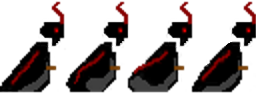
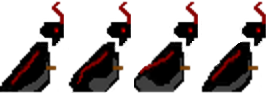
animation test

diff --git a/TE4TwoDSidescroller/Player.cs b/TE4TwoDSidescroller/Player.cs
@@ -65,7 +65,8 @@ namespace TE4TwoDSidescroller
 
             LoadPlayerTexture2D();
 
-            Animate();
+            //Animate();
+            Anime();
 
             maxHealth = 150;
             currentHealth = maxHealth;
@@ -131,29 +132,36 @@ namespace TE4TwoDSidescroller
             }
         }
 
-        public void Animate()
+        //public void Animate()
+        //{
+        //    if (isWalkingRight)
+        //    {
+        //        animation = new Animation(rightWalk, 4);
+        //        animation.isLooping = true;
+        //        animation.FramePerSecond = 5;
+        //        animation.position = PlayerPosition;
+        //        isWalkingRight = false;
+        //    }
+        //    else if (isWalkingLeft)
+        //    {
+        //        animation = new Animation(leftWalk, 4);
+        //        animation.isLooping = true;
+        //        animation.FramePerSecond = 5;
+        //        animation.position = PlayerPosition;
+        //        isWalkingLeft = false;
+        //    }
+        //    else if (isJumping)
+        //    {
+
+        //    }
+
+        //}
+
+        public void Anime()
         {
-            if (isWalkingRight)
-            {
-                animation = new Animation(rightWalk, 4);
-                animation.isLooping = true;
-                animation.FramePerSecond = 5;
-                animation.position = PlayerPosition;
-                isWalkingRight = false;
-            }
-            else if (isWalkingLeft)
-            {
-                animation = new Animation(leftWalk, 4);
-                animation.isLooping = true;
-                animation.FramePerSecond = 5;
-                animation.position = PlayerPosition;
-                isWalkingLeft = false;
-            }
-            else if (isJumping)
-            {
-
-            }
-
+            animation = new Animation(rightWalk, 4);
+            animation.isLooping = true;
+            animation.FramePerSecond = 5;
         }
 
         public override void HasCollidedWith(Entity collider)
@@ -176,16 +184,16 @@ namespace TE4TwoDSidescroller
             IsGrounded = false;
         }
 
-        //public override void MoveUp()
-        //{
-        //    movementVector.Y -= moveSpeed; 
-        //    //Modife later to implant accelartion and friction. (acceleration - friction * movementVector.Y)
-        //}
+        public override void MoveUp()
+        {
+            movementVector.Y -= moveSpeed;
+            //Modife later to implant accelartion and friction. (acceleration - friction * movementVector.Y)
+        }
 
-        //public override void MoveDown()
-        //{
-        //    movementVector.Y += moveSpeed;
-        //}
+        public override void MoveDown()
+        {
+            movementVector.Y += moveSpeed;
+        }
 
         public override void MoveLeft()
         {
@@ -227,9 +235,7 @@ namespace TE4TwoDSidescroller
             deltaTime = (float)gameTime.ElapsedGameTime.TotalSeconds;
             time = (float)gameTime.ElapsedGameTime.TotalMilliseconds;
             deltaTimeSquaredDividedByTwo = (deltaTime * deltaTime) / 2;
-
-            
-
+                        
             playerVelocity = new Vector2(0, 0);
            
             PlayerPosition += movementVector * time / 15;
@@ -311,7 +317,7 @@ namespace TE4TwoDSidescroller
 
         public override void Draw(GameTime gameTime)
         {
-            GameInfo.spriteBatch.Draw(rightWalk, PlayerPosition, playerSourceRectangle, Color.White, playerRotation, playerOrigin, playerScale, SpriteEffects.None, 0.0f);
+            //GameInfo.spriteBatch.Draw(rightWalk, PlayerPosition, playerSourceRectangle, Color.White, playerRotation, playerOrigin, playerScale, SpriteEffects.None, 0.0f);
             animation.Draw(gameTime);
         }
     }

diff --git a/TE4TwoDSidescroller/LevelTutorial.cs b/TE4TwoDSidescroller/LevelTutorial.cs
@@ -23,7 +23,6 @@ namespace TE4TwoDSidescroller
             Entity floor;
             Entity TutorialGoal;
             Entity knight;
-            Entity playerTest;
 
             background = new Background();
             GameInfo.entityManager.AddEntity(background);
@@ -40,8 +39,6 @@ namespace TE4TwoDSidescroller
             knight = new Knight();
             GameInfo.entityManager.AddEntity(knight);
 
-            playerTest = new PlayerTest();
-            GameInfo.entityManager.AddEntity(playerTest);
         }
 
         public override void Update(GameTime gameTime)
